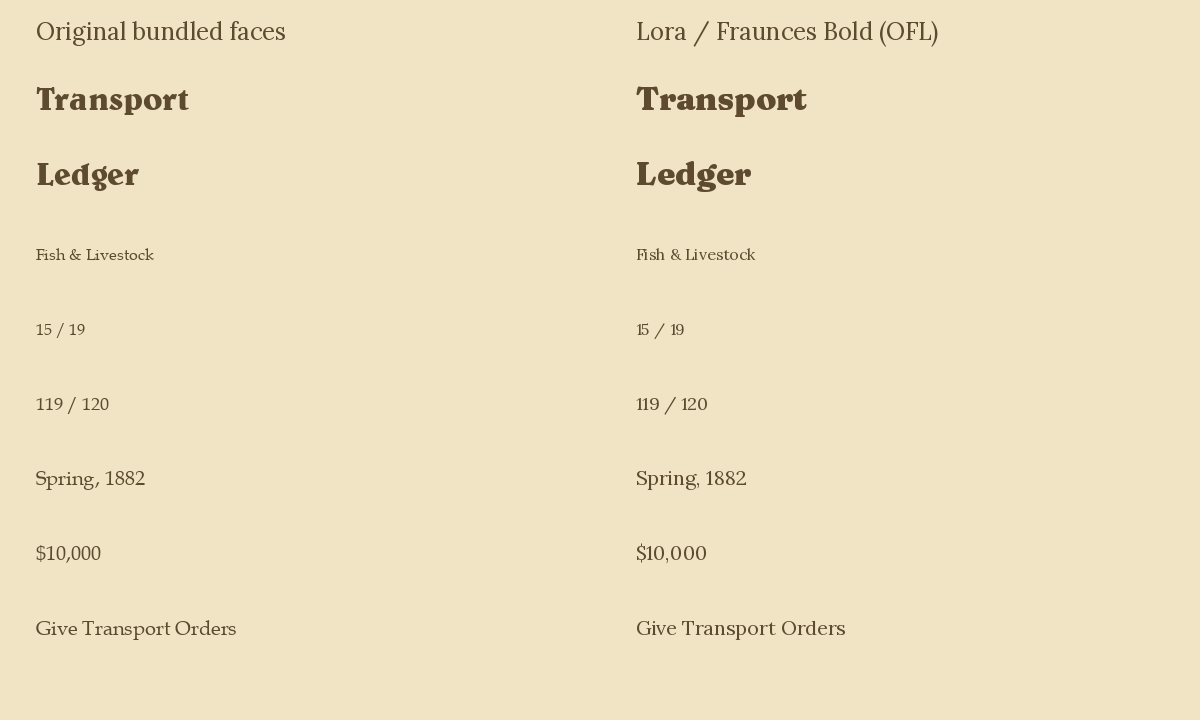
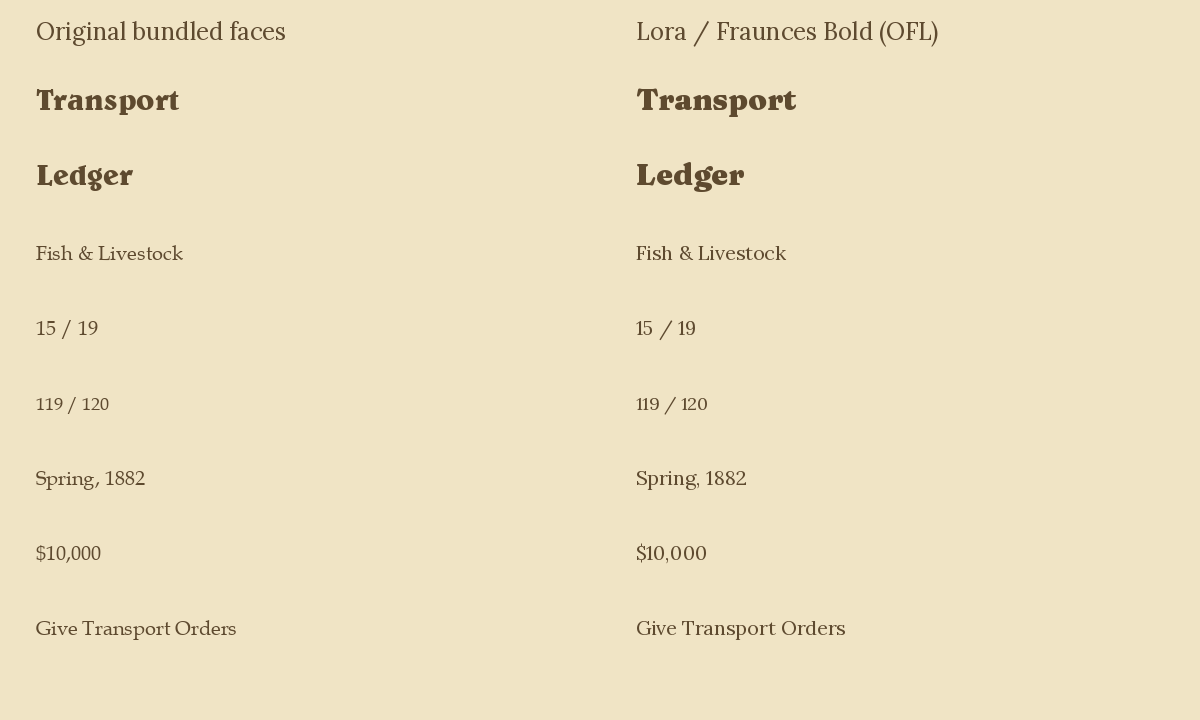
Adopt the modern font pair and fit larger Transport row text
QuorumForge-Room: 796e959c-2586-4e70-9549-2f73b9484b6c

diff --git a/src/Imperialism.Client/TransportLookSmoke.cs b/src/Imperialism.Client/TransportLookSmoke.cs
@@ -43,18 +43,71 @@ internal static class TransportLookSmoke
             slider.GetMeta("layout_name").AsString() == "row." + row.RowKey &&
             slider.Position == new Vector2(row.Column == Presentation.TransportLedgerColumn.Left ? 70 : 325,
                 118 + 31 * row.Slot)));
-        var rowText = sliders.All(slider =>
+        var tightestGap = float.PositiveInfinity;
+        var smallestSize = LedgerSlider.PreferredTextSize;
+        var checkedRows = 0;
+        bool RowFits(LedgerSlider slider)
         {
+            checkedRows++;
             var name = slider.GetNode<Label>("row_name");
             var figure = slider.GetNode<Label>("row_figure");
             var left = slider.Position.X == 70;
-            return Crisp(name) && Crisp(figure) && Fits(name) && Fits(figure) &&
+            var size = name.GetThemeFontSize("font_size");
+            var font = name.GetThemeFont("font");
+            var expectedSize = Enumerable.Range(1, 10).Where(candidateSize =>
+                font.GetStringSize(name.Text, fontSize: candidateSize).X +
+                font.GetStringSize(figure.Text, fontSize: candidateSize).X + 3 <= (left ? 113 : 112))
+                .DefaultIfEmpty(1).Max();
+            var (nameMin, nameMax) = InkBounds(name, k, 1f / 255);
+            var (figureMin, figureMax) = InkBounds(figure, k, 1f / 255);
+            var gap = figureMin.X - nameMax.X - 1f / k;
+            tightestGap = Math.Min(tightestGap, gap);
+            smallestSize = Math.Min(smallestSize, size);
+            var fits = Crisp(name) && Crisp(figure) && Fits(name) && Fits(figure) &&
+                size == expectedSize && figure.GetThemeFontSize("font_size") == size &&
+                nameMin.IsFinite() && figureMin.IsFinite() &&
+                nameMin.X >= name.Position.X && nameMax.X < name.Position.X + name.Size.X &&
+                figureMin.X >= figure.Position.X && figureMax.X < figure.Position.X + figure.Size.X &&
+                nameMin.Y >= 20 && figureMin.Y >= 20 &&
+                nameMax.Y < 31 && figureMax.Y < 31 && gap >= LedgerSlider.TextGap &&
                 name.Position.X == (left ? 96 : 92) && name.Position.Y == figure.Position.Y &&
                 name.Position.X + name.Size.X <= figure.Position.X &&
                 name.Position.Y + name.Size.Y <= slider.Size.Y &&
                 figure.Position.Y + figure.Size.Y <= slider.Size.Y &&
                 Math.Abs(slider.Position.X + figure.Position.X + figure.Size.X - (left ? 279 : 529)) < 0.01f;
-        });
+            if (!fits) GD.Print($"TRANSPORT_ROW_FAIL name={name.Text} figure={figure.Text} size={size}/{expectedSize} " +
+                $"nameBox={name.Position}/{name.Size} ink={nameMin}..{nameMax} figureBox={figure.Position}/{figure.Size} " +
+                $"ink={figureMin}..{figureMax} gap={gap} crisp={Crisp(name)}/{Crisp(figure)} advanceFit={Fits(name)}/{Fits(figure)}");
+            return fits;
+        }
+        var rowText = LedgerSlider.PreferredTextSize == 10 && LedgerSlider.TextGap == 3 && sliders.All(RowFits);
+        // Exercise long paired names with the widest requested sample in both
+        // columns, independently of the tiny smoke world's active commodities.
+        var rowFont = sliders[0].GetNode<Label>("row_name").GetThemeFont("font");
+        while (rowFont is FontVariation rowVariation) rowFont = rowVariation.BaseFont;
+        foreach (var column in Enum.GetValues<Presentation.TransportLedgerColumn>())
+        foreach (var (requested, available) in new[] { (15L, 19L), (119L, 120L) })
+        foreach (var name in preview.Rows.Select(row => row.Name).Concat(new[] { "Fish & Livestock", "Cotton & Wool" }).Distinct())
+        {
+            var row = preview.Rows[0] with { Column = column, Name = name, Requested = requested, Available = available };
+            var sample = new LedgerSlider { Position = new Vector2(column == Presentation.TransportLedgerColumn.Left ? 70 : 325, 0) };
+            // Inherit the live screen's theme before testing Label minimum sizes.
+            canvas.AddChild(sample);
+            sample.Build(row, rowFont);
+            rowText &= RowFits(sample);
+            sample.Free();
+        }
+        var measurement = new LedgerSlider { Position = new Vector2(70, 0) };
+        canvas.AddChild(measurement);
+        measurement.Build(preview.Rows[0] with { Name = "Fish & Livestock", Column = Presentation.TransportLedgerColumn.Left,
+            Requested = 15, Available = 19 }, rowFont);
+        var (sampleNameMin, sampleNameMax) = InkBounds(measurement.GetNode<Label>("row_name"), k, 1f / 255);
+        var (sampleFigureMin, sampleFigureMax) = InkBounds(measurement.GetNode<Label>("row_figure"), k, 1f / 255);
+        rowText &= RowFits(measurement);
+        GD.Print($"TRANSPORT_ROW_INK scale={k} preferredSize={LedgerSlider.PreferredTextSize} smallestSize={smallestSize} fitCases={checkedRows} " +
+            $"nameHeight={(sampleNameMax.Y - sampleNameMin.Y) * k + 1} figureHeight={(sampleFigureMax.Y - sampleFigureMin.Y) * k + 1} " +
+            $"tightestGap={tightestGap} name={sampleNameMin}..{sampleNameMax} figure={sampleFigureMin}..{sampleFigureMax}");
+        measurement.Free();
         var capacity = canvas.GetNode<Control>("CapacityRow").GetNode<Label>("capacity_figure");
         crisp &= Crisp(capacity) && Fits(capacity) && rowText && titlesFit &&
             new[] { date, hot, detail }.All(Fits);
@@ -102,13 +155,33 @@ internal static class TransportLookSmoke
 
     private static bool TitleInkFits(Label label, Rect2 target, int scale)
     {
+        var (minimum, maximum) = InkBounds(label, scale);
+        var fits = minimum.IsFinite() && maximum.IsFinite() && minimum.X >= target.Position.X && minimum.Y >= target.Position.Y &&
+            maximum.X < target.End.X && maximum.Y < target.End.Y;
+        GD.Print($"TRANSPORT_TITLE_INK {label.Text} {minimum}..{maximum} D18_FITS={fits}");
+        return fits;
+    }
+
+    private static (Vector2 Minimum, Vector2 Maximum) InkBounds(Label label, int scale, float threshold = 0.5f)
+    {
         // Shape at final resolution with oversampling 1, as in the independent
         // atlas probe. Read live Label text, variation axes, position and metrics.
         var liveFont = label.GetThemeFont("font");
-        var font = (FontVariation)liveFont.Duplicate();
-        var face = (FontFile)font.BaseFont.Duplicate();
-        face.Oversampling = 1;
-        font.BaseFont = face;
+        Font font;
+        if (liveFont is FontVariation variation)
+        {
+            var copy = (FontVariation)variation.Duplicate();
+            var face = (FontFile)copy.BaseFont.Duplicate();
+            face.Oversampling = 1;
+            copy.BaseFont = face;
+            font = copy;
+        }
+        else
+        {
+            var face = (FontFile)liveFont.Duplicate();
+            face.Oversampling = 1;
+            font = face;
+        }
         var size = label.GetThemeFontSize("font_size");
         var ts = TextServerManager.GetPrimaryInterface();
         var shaped = ts.CreateShapedText();
@@ -137,7 +210,7 @@ internal static class TransportLookSmoke
                     for (var y = 0; y < (int)uv.Size.Y; y++)
                     for (var x = 0; x < (int)uv.Size.X; x++)
                     {
-                        if (atlas.GetPixel((int)uv.Position.X + x, (int)uv.Position.Y + y).A < 0.5f) continue;
+                        if (atlas.GetPixel((int)uv.Position.X + x, (int)uv.Position.Y + y).A < threshold) continue;
                         var point = baseline + new Vector2(pen, 0) / scale +
                             (glyph["offset"].AsVector2() +
                              offset + new Vector2(x, y) * (logical / uv.Size)) / scale;
@@ -147,10 +220,7 @@ internal static class TransportLookSmoke
                 }
                 pen += glyph["advance"].AsSingle() * glyph["repeat"].AsInt32();
             }
-            var fits = minimum.IsFinite() && maximum.IsFinite() && minimum.X >= target.Position.X && minimum.Y >= target.Position.Y &&
-                maximum.X < target.End.X && maximum.Y < target.End.Y;
-            GD.Print($"TRANSPORT_TITLE_INK {label.Text} {minimum}..{maximum} D18_FITS={fits}");
-            return fits;
+            return (minimum, maximum);
         }
         finally
         {

diff --git a/src/Imperialism.Client/ui/look/LedgerSlider.cs b/src/Imperialism.Client/ui/look/LedgerSlider.cs
@@ -4,7 +4,7 @@ using Imperialism.Presentation;
 namespace Imperialism.Client;
 
 /// <summary>
-/// One original 224x30 row. Arithmetic here only maps values to pixels and pointer
+/// One original 224x30 strip within a 31 px row pitch. Arithmetic maps values to pixels and pointer
 /// positions to a requested total; Presentation owns all bounds and edit decisions.
 /// </summary>
 public sealed partial class LedgerSlider : Control
@@ -31,18 +31,18 @@ public sealed partial class LedgerSlider : Control
     {
         Name = "row_" + row.RowKey.Replace("commodity.", "").Replace('+', '_');
         SetMeta("layout_name", "row." + row.RowKey);
-        Size = new Vector2(224, 30);
+        Size = new Vector2(224, 31);
         _font = font;
         FocusMode = FocusModeEnum.All;
         MouseFilter = MouseFilterEnum.Stop;
         _edge = row.Column == TransportLedgerColumn.Left ? 96 : 92;
         if (row.Strip is { } strip) _strip = GD.Load<Texture2D>($"res://art/transport/{strip}.png");
         // The two mockup additions are separate nodes: the name here, the handle below.
-        _name = LedgerText.Add(this, "row.name", new Rect2(_edge, 18, 70, 12), row.Name,
-            font, 8, new Color("5e4a30"));
+        _name = LedgerText.Add(this, "row.name", new Rect2(_edge, 17, 70, 14), row.Name,
+            font, PreferredTextSize, new Color("5e4a30"));
         var right = row.Column == TransportLedgerColumn.Left ? 209 : 204;
-        _figure = LedgerText.Add(this, "row.figure", new Rect2(_edge + 70, 18, right - _edge - 70, 12),
-            "", font, 8, Colors.Black, HorizontalAlignment.Right);
+        _figure = LedgerText.Add(this, "row.figure", new Rect2(_edge + 70, 17, right - _edge - 70, 14),
+            "", font, PreferredTextSize, Colors.Black, HorizontalAlignment.Right);
         var handle = new LedgerHandle { Name = "SliderHandle", Position = new Vector2(_edge + 1, 13) };
         handle.SetMeta("layout_name", "slider.handle");
         AddChild(handle);
@@ -60,18 +60,33 @@ public sealed partial class LedgerSlider : Control
         _figure.Text = $"{row.Requested} / {row.Available}";
         // Text layout only: reserve the figure's natural width, then fit the name
         // into the remaining span. This never changes the order or its bounds.
-        var figureWidth = _font!.GetStringSize(_figure.Text, fontSize: 8).X;
         var right = row.Column == TransportLedgerColumn.Left ? 209 : 204;
-        _figure.Position = new Vector2(right - figureWidth, 18);
-        _figure.Size = new Vector2(figureWidth, 12);
-        _name!.Size = new Vector2(Math.Max(1, right - _edge - figureWidth - 3), 12);
-        var nameSize = 8;
-        while (nameSize > 5 && _font.GetStringSize(row.Name, fontSize: nameSize).X > _name.Size.X) nameSize--;
-        _name.AddThemeFontSizeOverride("font_size", nameSize);
+        var size = FitTextSize(_font!, row.Name, _figure.Text, right - _edge);
+        var height = _font!.GetHeight(size);
+        var figureWidth = _font.GetStringSize(_figure.Text, fontSize: size).X;
+        _figure.AddThemeFontSizeOverride("font_size", size);
+        _name!.AddThemeFontSizeOverride("font_size", size);
+        _figure.Position = new Vector2(right - figureWidth, 17);
+        _figure.Size = new Vector2(figureWidth, height);
+        _name.Text = row.Name;
+        _name.Size = new Vector2(Math.Max(1, right - _edge - figureWidth - TextGap), height);
         var handle = GetNode<LedgerHandle>("SliderHandle");
         handle.Visible = row.IsActive;
         handle.Position = new Vector2(_edge + 1 + FillWidth(row), 13);
         QueueRedraw();
+    }
+
+    public const int PreferredTextSize = 10;
+    public const int TextGap = 3;
+
+    // Prefer the mockup's 20 px at 2x. Keep both labels the same size and use
+    // the largest size that fits when a long name meets a wide live figure.
+    public static int FitTextSize(Font font, string name, string figure, float width)
+    {
+        var size = PreferredTextSize;
+        while (size > 1 && font.GetStringSize(name, fontSize: size).X +
+               font.GetStringSize(figure, fontSize: size).X + TextGap > width) size--;
+        return size;
     }
 
     private static float FillWidth(TransportRowView row) => row.Available > 0

diff --git a/src/Imperialism.Client/screens/TransportScreen.cs b/src/Imperialism.Client/screens/TransportScreen.cs
@@ -52,8 +52,8 @@ public sealed partial class TransportScreen : Control, IShellScreen
         _canvas = GD.Load<PackedScene>("res://scenes/TransportLayout.tscn").Instantiate<Control>();
         AddChild(_canvas);
         // Per-screen copies: oversampling must not mutate the other screens' cached fonts.
-        _bodyFont = (FontFile)GD.Load<FontFile>("res://art/fonts/transport-lora.ttf").Duplicate();
-        _headingFont = (FontFile)GD.Load<FontFile>("res://art/fonts/transport-fraunces.ttf").Duplicate();
+        _bodyFont = (FontFile)GD.Load<FontFile>("res://art/fonts/lora.ttf").Duplicate();
+        _headingFont = (FontFile)GD.Load<FontFile>("res://art/fonts/fraunces.ttf").Duplicate();
         foreach (var font in new[] { _bodyFont, _headingFont })
         {
             font.Antialiasing = TextServer.FontAntialiasing.Gray;

diff --git a/tests/Imperialism.Client.Assets.Tests/ArtManifestTests.cs b/tests/Imperialism.Client.Assets.Tests/ArtManifestTests.cs
@@ -131,11 +131,12 @@ public sealed class ArtManifestTests
     }
 
     [Fact]
-    public void TransportFontsRecordOfficialSourcesLicencesAndUnmodifiedBytes()
+    public void ModernFontsRecordOfficialSourcesLicencesAndUnmodifiedBytes()
     {
         using var document = JsonDocument.Parse(File.ReadAllText(ManifestPath));
         var fonts = document.RootElement.GetProperty("externalFonts").EnumerateArray().ToArray();
-        Assert.Equal(4, fonts.Length);
+        Assert.Equal(new[] { "fonts/lora.ttf", "fonts/lora-OFL.txt", "fonts/fraunces.ttf", "fonts/fraunces-OFL.txt" },
+            fonts.Select(font => font.GetProperty("path").GetString()));
         foreach (var font in fonts)
         {
             Assert.StartsWith("https://raw.githubusercontent.com/google/fonts/", font.GetProperty("source").GetString());

diff --git a/docs/look/transport-text-check.md b/docs/look/transport-text-check.md
@@ -11,7 +11,7 @@ both unmodified variable fonts under **SIL OFL 1.1**. Private FontFiles use
 grayscale antialiasing, normal hinting, disabled subpixel positioning and
 oversampling equal to the canvas scale. Labels draw the fonts at the final
 resolution; the native-texture classes have been removed. Existing screens
-keep their original fonts. Header spacing is the font's normal spacing; ink
+not yet rebuilt keep their current fonts. Header spacing is the font's normal spacing; ink
 and shadows retain D15's colours and offsets.
 
 The Transport smoke now checks antialiased Labels and scale-dependent
@@ -21,14 +21,43 @@ name origins at the bars, figure right edges x279/x529 and boxes within rows.
 It retains hover, geometry, row placement, input and order invariants. It no
 longer checks binary ink counts, whole 1x pixel blocks or the foot on `1`.
 
-The reproducible sample `transport-font-sample.png` is generated by
-`render-transport-font-sample.gd` from the original and replacement TTFs at
-final 2x font sizes. It is a font comparison, not a GPU frame or Windows
-acceptance shot. The sample was visually inspected on the server. The CPU
-rasterizer found 8,351 fractional-alpha glyph pixels in the final sample,
-confirming antialiased source coverage rather than binary glyph textures.
-At native layout size 8, Lora's `Fish & Livestock` width is 61 and `15 / 19`
-is 25, leaving space in the 113-pixel bar span.
+Andy selected **"Modern pair"** on 27 November 2026 after reviewing the sample
+in https://github.com/PlueRyvius/Imperialism-1-Modern/pull/97. The neutral
+`fonts/lora.ttf` and `fonts/fraunces.ttf` names (and matching OFL files) now
+serve the design guide for every rebuilt screen; existing screens keep their
+current font until rebuilt. The manifest retains the original upstream URLs
+and byte hashes, and the font provenance test checks the neutral paths.
+
+Rows prefer size **10** (20 px nominal at 2x). Both labels reduce together to
+the largest integer size that fits the live name, figure and 3 px gap. At size
+10 the advances are 76 px for `Fish & Livestock`, 31 px for `15 / 19` and
+41 px for `119 / 120`. The first pair fits the 113/112 px spans; the widest
+pair does not (76 + 41 + 3 = 120). At size 9 that pair needs 68 + 37 + 3 =
+108 px, so it fits both columns. These are font/layout measurements, not game
+values. Row boxes start at local y17 and use natural height (14 px at size
+10), within the 31 px pitch; the heading and header declarations are unchanged.
+The smoke tests every preview row plus the long paired names and widest
+sample in both columns. It scans final-size glyph alpha for name and figure
+ink containment, the gap, and placement below the underline.
+
+The reproducible `transport-font-sample.png` is generated by
+`render-transport-font-sample.gd` from original and modern TTFs at final 2x
+sizes: 30 px headings, 20 px row labels/header, and 18 px capacity. It contains
+no game screenshot. The regenerated sample was visually inspected on the
+server and contains 8,612 fractional-alpha glyph pixels, confirming
+antialiased source coverage rather than binary glyph textures.
+
+Modern-pair round measurements at 1920x1080 (k=2), using final-size atlas
+pixels with any nonzero alpha: `Fish & Livestock` at size 10 has **14 px** of
+ink height; `15 / 19` has **21 px**. These are actual ink heights, distinct
+from the nominal 20 px font size. The tightest measured name/figure ink gap
+across **29** live and synthetic row cases is **5 ledger pixels (10 px at
+2x)**. The widest long-name case uses size 9; the normal sample uses size 10.
+All name/figure ink and Label boxes fit within the 31 px row pitch and stay
+below the underline. Synthetic samples must be attached to the live canvas
+before measuring: off-tree Labels use the default theme's different minimum
+height. The smoke checks all preview rows and both columns with the paired
+names beside both `15 / 19` and `119 / 120`.
 
 The D18 fix uses title size 15 with the same bold variation axes and moves
 both Label origins 0.5 px right/up. At size 16, Ledger's thresholded ink
@@ -44,7 +73,8 @@ The server-only gate probe was updated to read the current heading declarations
 instead of its hard-coded old positions, size and baseline.
 Exact Windows baseline/placement and visual acceptance beside the mockup remain untested until the ETHERCAT shot.
 
-Final server verification: the repository's Godot SDK 4.7.1 Release solution
+Previous D18-fix verification (before modern-pair sizing): the repository's
+Godot SDK 4.7.1 Release solution
 build exited 0 with **0 warnings and 0 errors**. The full suite passed
 **1,263**, failed **0** and skipped **11** (local corpus unavailable), including
 all **8** client-asset tests. The installed Godot 4.6.3 Mono runtime's five
@@ -173,3 +203,23 @@ turn/newspaper/report, orders) exited 0 with no errors or warnings. The full
 solution suite passed 1,261 tests, failed 0 and skipped 11, including all seven
 art-manifest tests. Logs for this round are server-only in this worktree's
 `fixtures/local_only/raster-r3/`; no GPU frame or original screenshot is committed.
+
+### Modern-pair verification, 27 November 2026
+
+The Release solution build, including the client with the repository's Godot
+SDK, completed with 0 warnings and 0 errors. The full solution suite passed
+1,263 tests, failed 0 and skipped 11; this includes all eight client asset tests.
+All five headless client smokes exited 0 at 1920x1080, with no errors or warnings.
+The Transport smoke checked 29 fitting cases and reported a smallest size of 9,
+a tightest ink gap of 5 ledger pixels (10 screen pixels), and actual 2x ink
+heights of 14 pixels for `Fish & Livestock` and 21 for `15 / 19` at size 10.
+The nominal font size is 20 screen pixels; glyph ink heights vary by face.
+
+The supplied external heading probe exited 0. It still names the former
+`transport-fraunces.ttf`, so a temporary compatibility alias to `fraunces.ttf`
+was used only for that run and removed afterwards. Both heading ink boxes stayed
+inside D18. The regenerated font sample contains 8,612 fractional-alpha glyph
+pixels, confirming antialiased rendering rather than binary enlarged glyphs.
+Logs are server-only under `fixtures/local_only/modern-pair/` in this worktree.
+These atlas and geometry checks do not replace the pending ETHERCAT frame beside
+the approved mockup.

diff --git a/docs/look/transport-layout.md b/docs/look/transport-layout.md
@@ -342,6 +342,10 @@ where they require hard-edged native 1x glyphs, their ink counts or the foot
 on `1`. Those decisions remain above as history. The approved mockup wins.
 No game values, allocation, row activation or input decisions change.
 
+Andy chose "Modern pair" on 27 November 2026: every rebuilt screen uses
+Lora (`fonts/lora.ttf`) and Fraunces Bold (`fonts/fraunces.ttf`), with row
+names/figures preferring size 10 (20 px at 2x), reduced together only to fit.
+
 Transport now uses Lora Regular for body text and figures and Fraunces Bold
 (weight 700, optical size 34, softness 50) for its headings. Both are SIL OFL
 1.1, downloaded unmodified from the Google Fonts upstream at commit
@@ -352,18 +356,20 @@ four fonts and the original-only extractor are unchanged.
 All Transport text uses antialiased Labels and private font copies with
 oversampling equal to the integer canvas scale. At 1920x1080, glyphs are
 rasterized at 2x, rather than enlarged from 1x textures. Body/figure size is
-8, header size 10, capacity size 9 and bold title size 16 in ledger units.
+10 where it fits, header size 10, capacity size 9 and bold title size 15
+in ledger units.
 Normal font word spacing replaces the header's manual spacing.
 
 Each row's name begins at its bar's left edge (x166 or x417), with its
 figure right-aligned at x279 or x529 on the same line. Label boxes start
-at row-local y18 and are 12 pixels high, fitting the row's 30-pixel height;
-the baseline follows Lora's metrics. The figure reserves its natural width;
-the name gets the remaining span with a 3-pixel gap. Unusually long custom
-names can reduce their font size from 8 to 5 to stay in that span. The
-standard `Fish & Livestock` name fits at size 8. No name is placed below
-an icon. These positions remain subject to the forthcoming mockup text
-spec and the Windows comparison.
+at row-local y17, with natural font height (14 pixels at size 10), within
+the 31-pixel row pitch; the baseline follows Lora's metrics. The figure
+reserves its natural width; the name gets the remaining span with a
+3-pixel gap. Both use the largest shared integer size up to 10 that fits.
+`Fish & Livestock` with `15 / 19` fits at size 10; with `119 / 120` it uses
+size 9 in either column. Unusually long custom names can shrink further.
+No name is placed below an icon. These positions remain subject to the
+forthcoming mockup text spec and the Windows comparison.
 
 Acceptance checks final-scale antialiased Labels, name/figure fit and
 alignment, plus the unchanged geometry and input checks. A foot or binary

diff --git a/docs/look-design.md b/docs/look-design.md
@@ -62,11 +62,12 @@ text, no controls. (The colour is Andy's approved mockup's.)
 
 **Only the drawing is modernised: text is redrawn crisp.** Text is not part of
 any bitmap and is not scaled up from 1x. It is rendered at the root's final
-resolution, in place, at the position and size the original draws it, using the
-original's own faces (`fonts/antiqua*.ttf` for body text, `fonts/display*.ttf`
-for headings, both in the manifest). A label's box is the note's rectangle x k;
+resolution, in place, at the position and size the original draws it,
+in the modern pair (below). A label's box is the note's rectangle x k;
 text stays inside it. Colours follow the original's palette as sampled
 with the extractor's `--probe`.
+
+**Fonts: the modern pair** (Andy, 27 Nov 2026, "Modern pair", after the sample in https://github.com/PlueRyvius/Imperialism-1-Modern/pull/97). Every rebuilt screen draws body text and figures in **Lora** (`fonts/lora.ttf`) and headings in **Fraunces Bold** (`fonts/fraunces.ttf`), both SIL OFL and recorded with source and licence in the manifest. They replace the original's Antiqua and Belwe-style faces for legibility at the final resolution. The original fonts (`fonts/antiqua*.ttf`, `fonts/display*.ttf`) stay in the repository unchanged, for reference. Text keeps the original's position and colour, and its size matches the approved mockup's: body text and figures about 20 px tall at 1920x1080 (size 10 in the 640x480 frame).
 
 *Chosen, for how this is built in Godot:* the rebuilt screen's root is a
 `Control` of 640x480 with `scale = (k, k)`, recomputed on window resize; font
